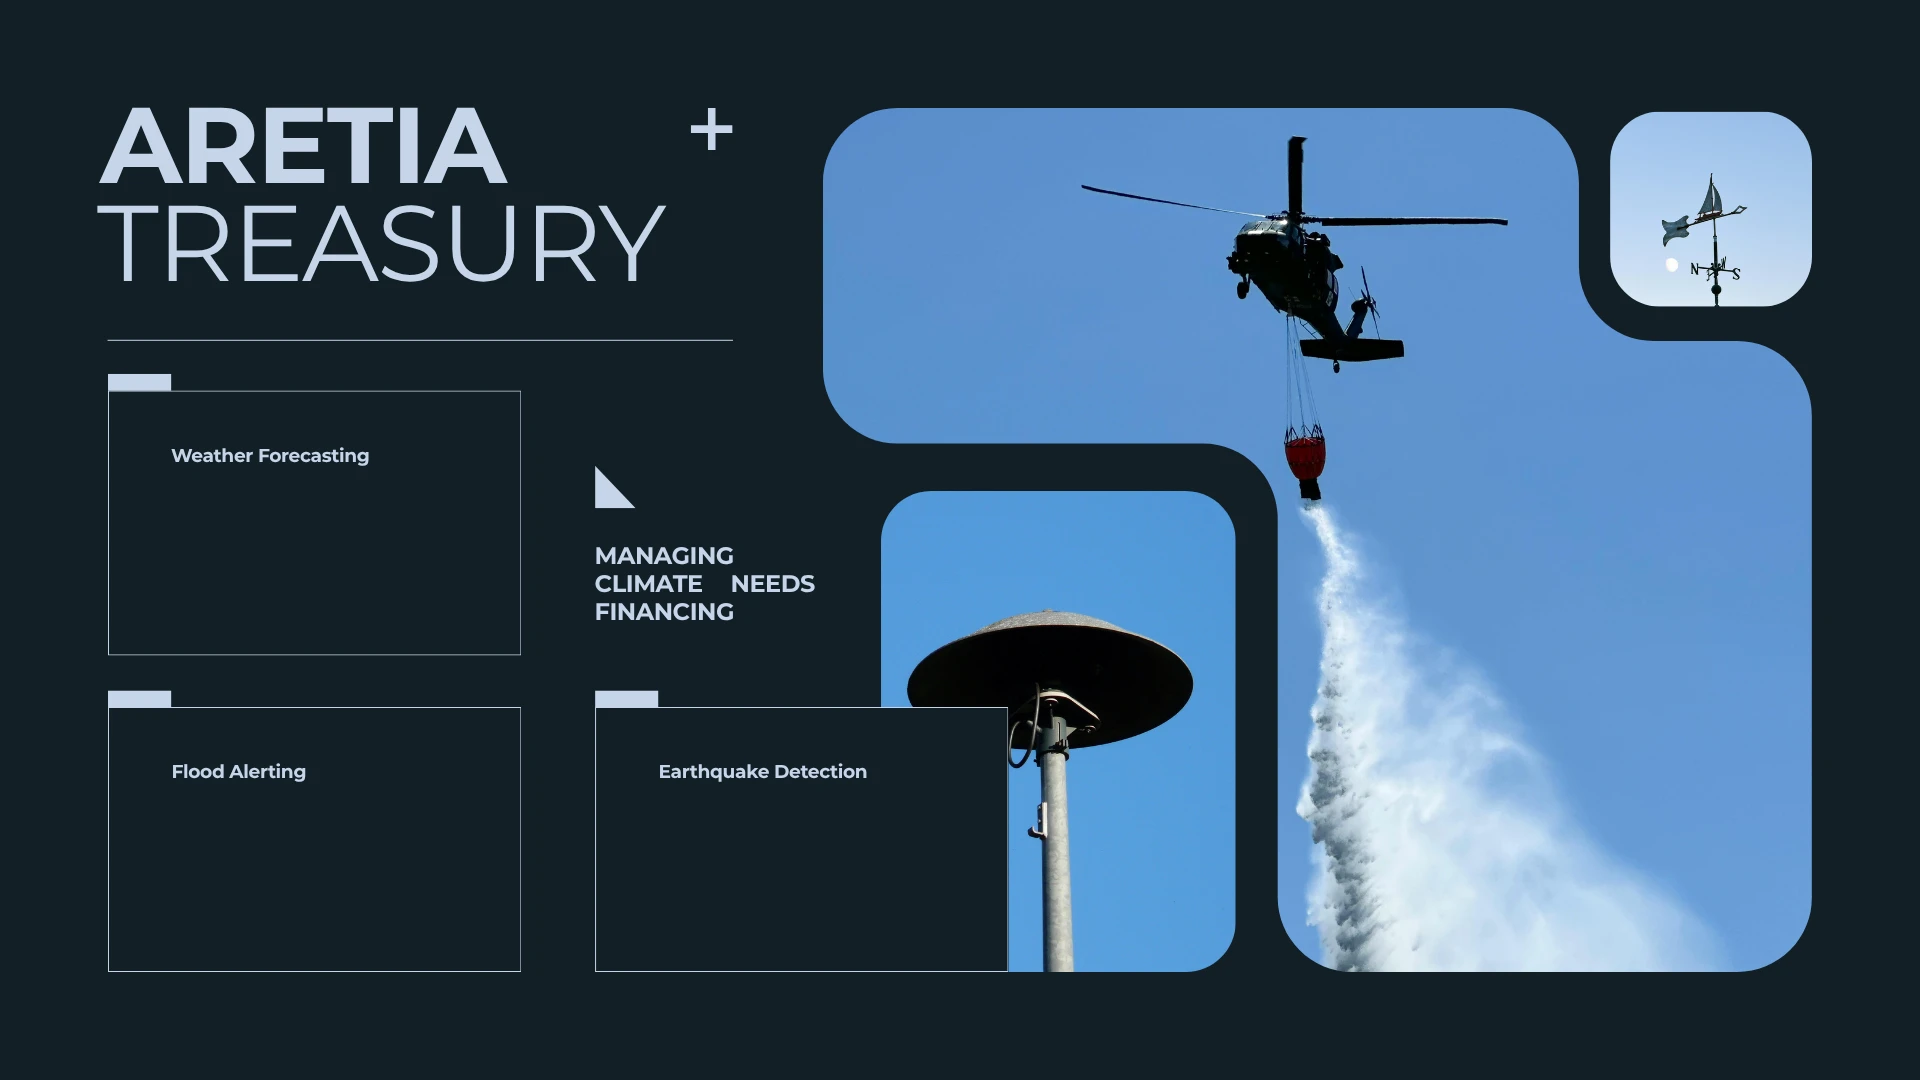
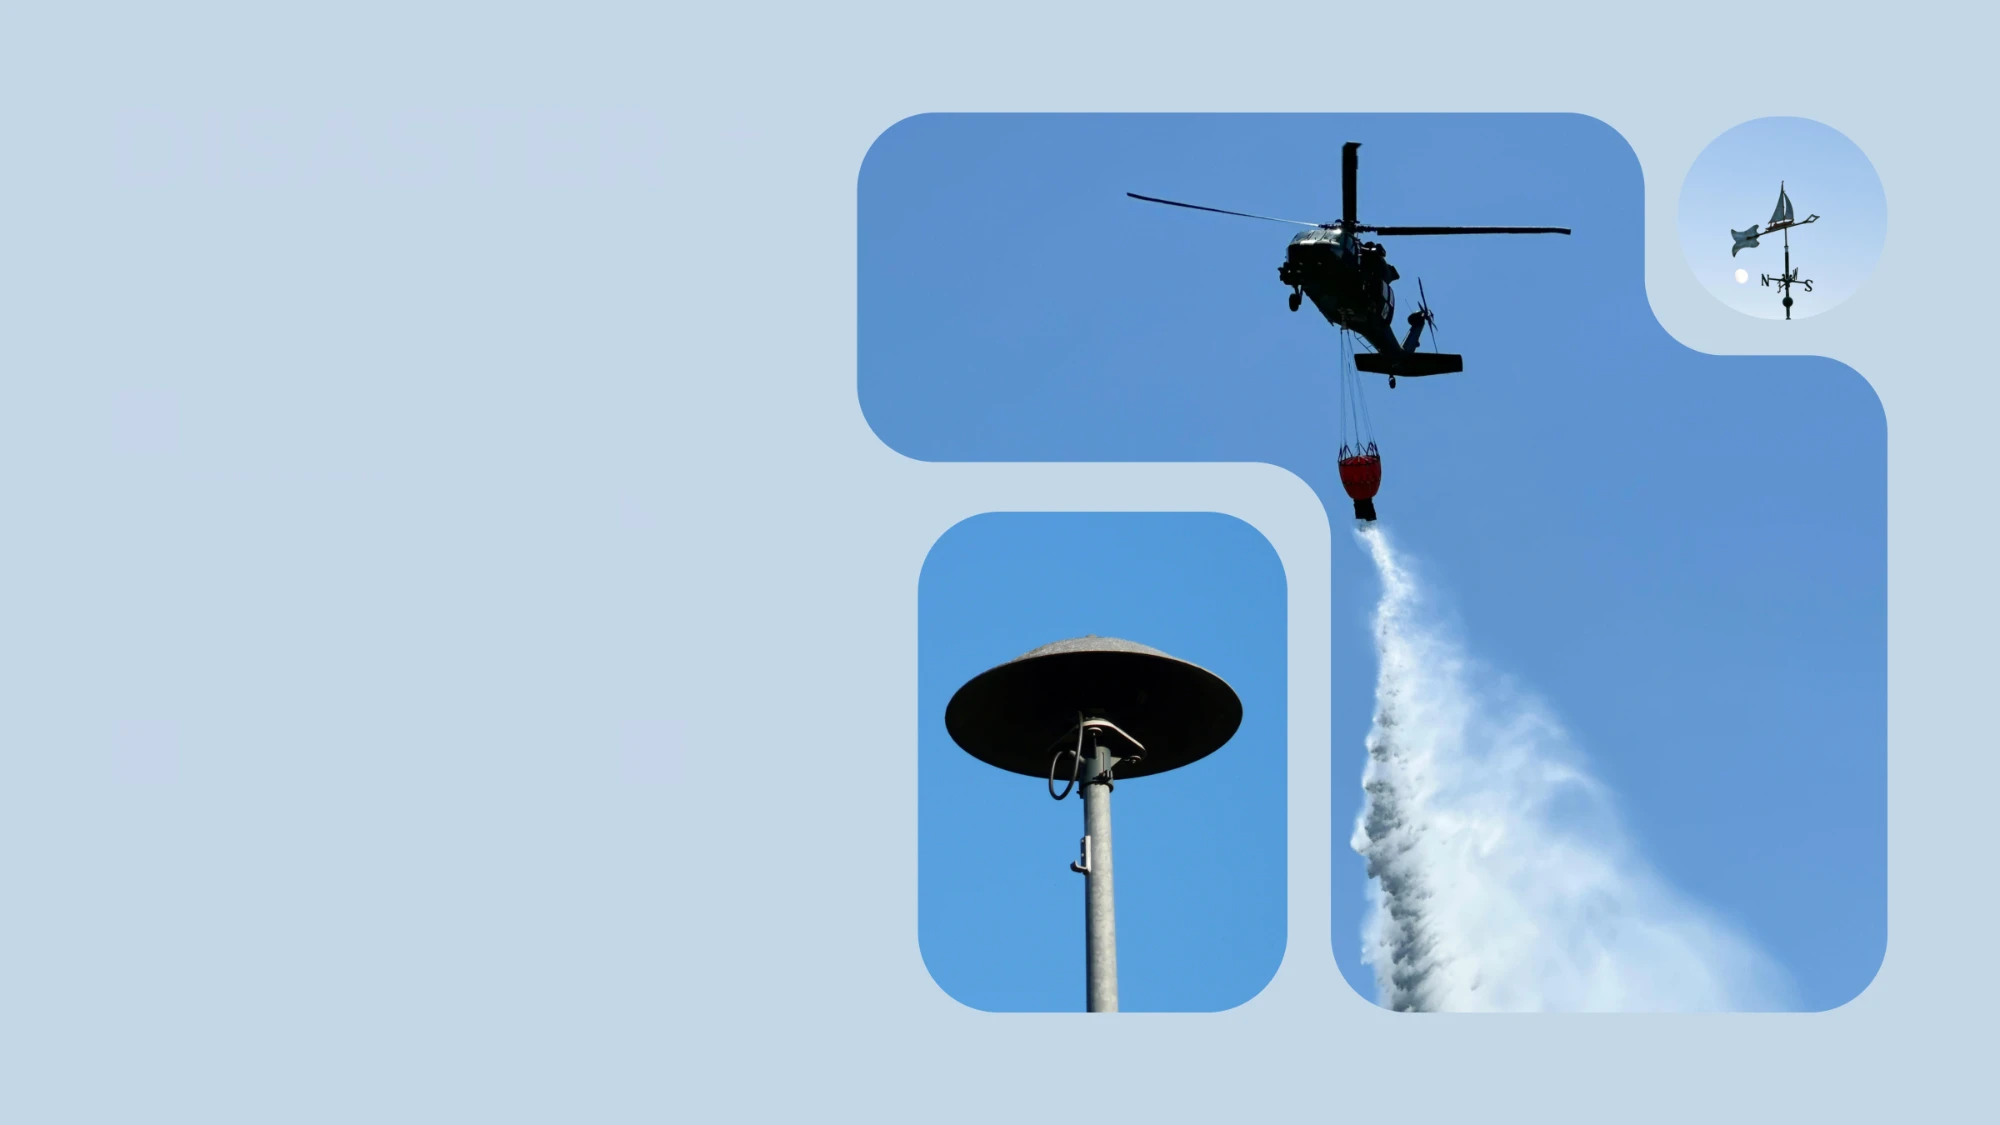
Home carousel: new Aretia Treasury background, with the words over its empty left side

diff --git a/website/src/data/houseAds.ts b/website/src/data/houseAds.ts
@@ -9,7 +9,7 @@
  *
  * `bg` is the flat page colour and `art` the colour of the framed picture beside the words (#rrggbb). `layout` is 'wide' (a
  * landscape frame with the words under it), 'tall' (a portrait frame with the words beside it) or 'duo' (two frames, one above the
- * other, with the words beside them) or 'poster' (one picture that fills the whole canvas and carries its own words; the text here is for screen readers).
+ * other, with the words beside them) or 'poster' (one picture that fills the whole canvas, with the words over its empty left side).
  */
 import type { ProductKey } from '../lib/logos';
 
@@ -30,7 +30,7 @@ export interface HouseAd {
 }
 
 export const HOUSE_ADS: readonly HouseAd[] = [
-  { id: 'treasury', product: null, headline: 'Aretia Treasury: managing climate needs financing.', body: 'The Climate Treasury finances weather forecasting, flood alerting and earthquake detection, funded by every ACT transfer.', cta: 'Explore the Treasury', href: '/details', bg: '#131f29', art: '#131f29', layout: 'poster', image: { src: '/images/hero/treasury.webp', alt: 'Aretia Treasury: managing climate needs financing, with weather forecasting, flood alerting and earthquake detection, beside a firefighting helicopter and a warning siren' } },
+  { id: 'treasury', product: null, headline: 'Aretia Treasury', body: 'Managing climate needs financing: weather forecasting, flood alerting and earthquake detection, funded by every ACT transfer.', cta: 'Explore the Treasury', href: '/details', bg: '#c4d7e6', art: '#c4d7e6', layout: 'poster', image: { src: '/images/hero/treasury.webp', alt: 'A firefighting helicopter dropping water, a warning siren and a weathervane, in rounded frames' } },
   { id: 'charts', product: null, headline: 'Read the chart before you trade.', body: 'Every token in Markets opens with its chart and its Aretia rating, side by side.', cta: 'Open Markets', href: '/wallet#/swings', bg: '#e4e7fb', art: '#26168a', layout: 'wide', chart: { seed: 21, style: 'candles', up: true } },
   { id: 'bitcoin', product: null, headline: 'Bitcoin, on the chains you already use.', body: 'Find wrapped Bitcoin markets on Solana, Ethereum and more, and check each token before you trade it.', cta: 'Find a market', href: '/wallet#/swings', bg: '#fbe9d0', art: '#2b1a05', layout: 'tall', chart: { seed: 8, style: 'line', up: true }, mark: { text: '₿', label: 'Bitcoin symbol', bg: '#f7931a', fg: '#ffffff' } },
   { id: 'solana', product: null, headline: 'Solana moves fast. Check before you sign.', body: 'Trade Solana tokens with the rating, the liquidity and the safety check beside every one.', cta: 'Open Markets', href: '/wallet#/swings', bg: '#e6e3fb', art: '#14102e', layout: 'duo', chart: { seed: 33, style: 'line', up: true }, mark: { logo: '/assets/chains/solana.png', label: 'Solana', bg: '#ffffff' } },

diff --git a/website/public/images/hero/CREDITS.md b/website/public/images/hero/CREDITS.md
@@ -13,4 +13,4 @@ safesend; safesend also has its plain backdrop extended).
 | shield.webp | https://unsplash.com/photos/brown-wooden-door-with-brass-door-knob-3ROwc3JSjCk | Brock Wegner |
 | safesend.webp | https://unsplash.com/photos/clear-hour-glass-with-coins-COoxOZZtwzA | Ricardo Díaz |
 
-treasury.webp: the Aretia Treasury slide, supplied by the Aretia owner (a composed image using stock photographs; the individual photo credits were not supplied with it).
+treasury.webp: the Aretia Treasury background, supplied by the Aretia owner (a composed image using stock photographs; the individual photo credits were not supplied with it).
